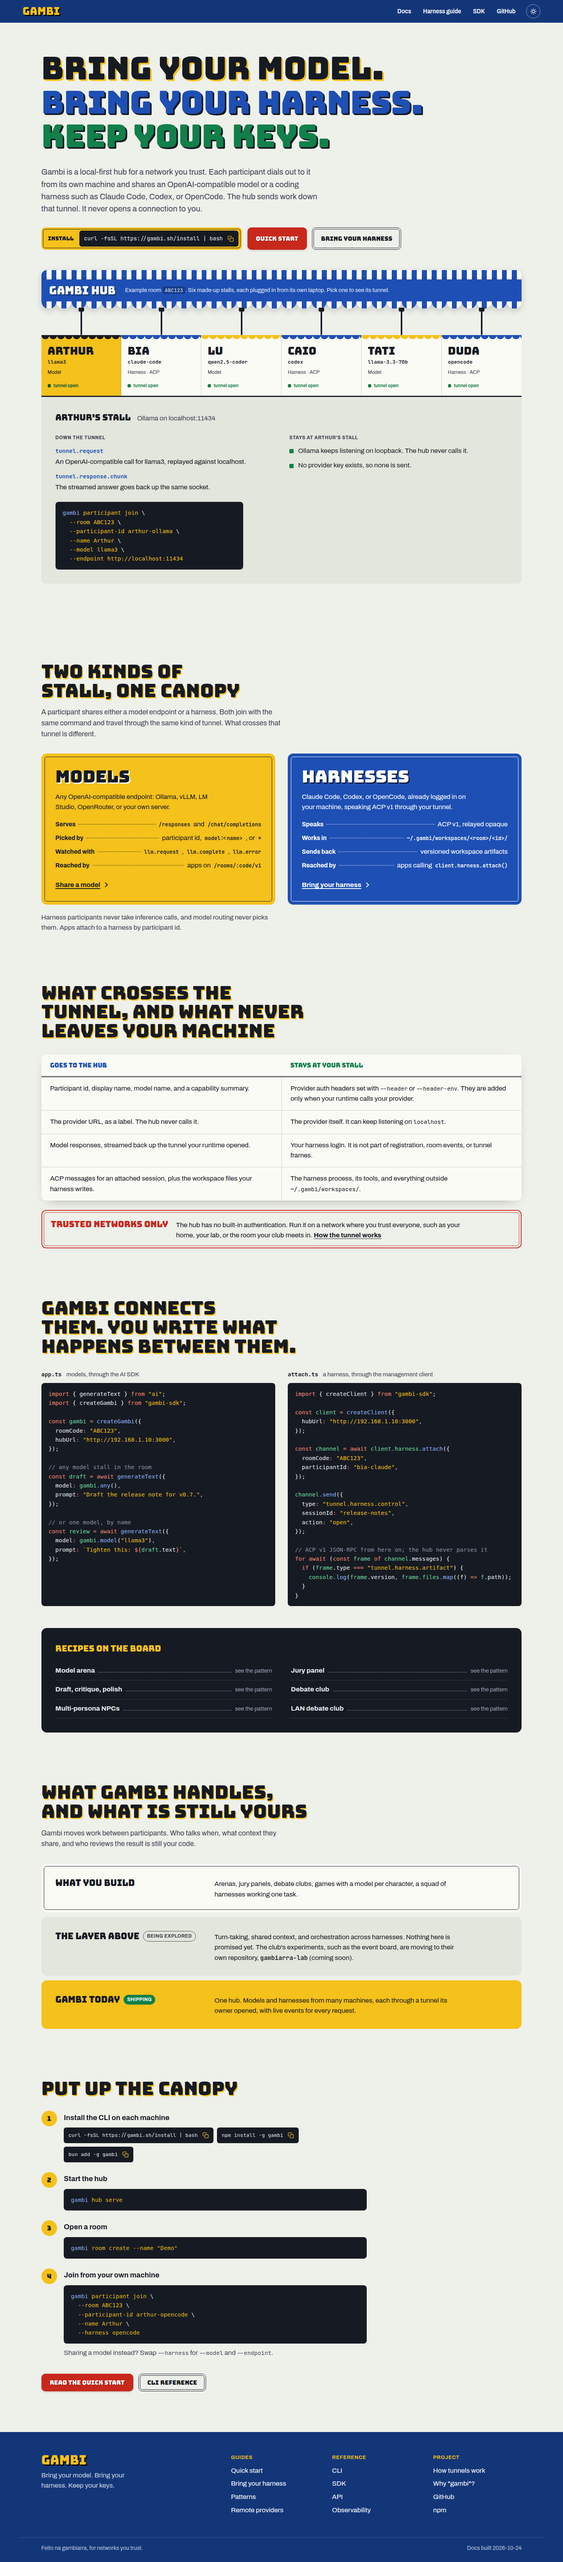
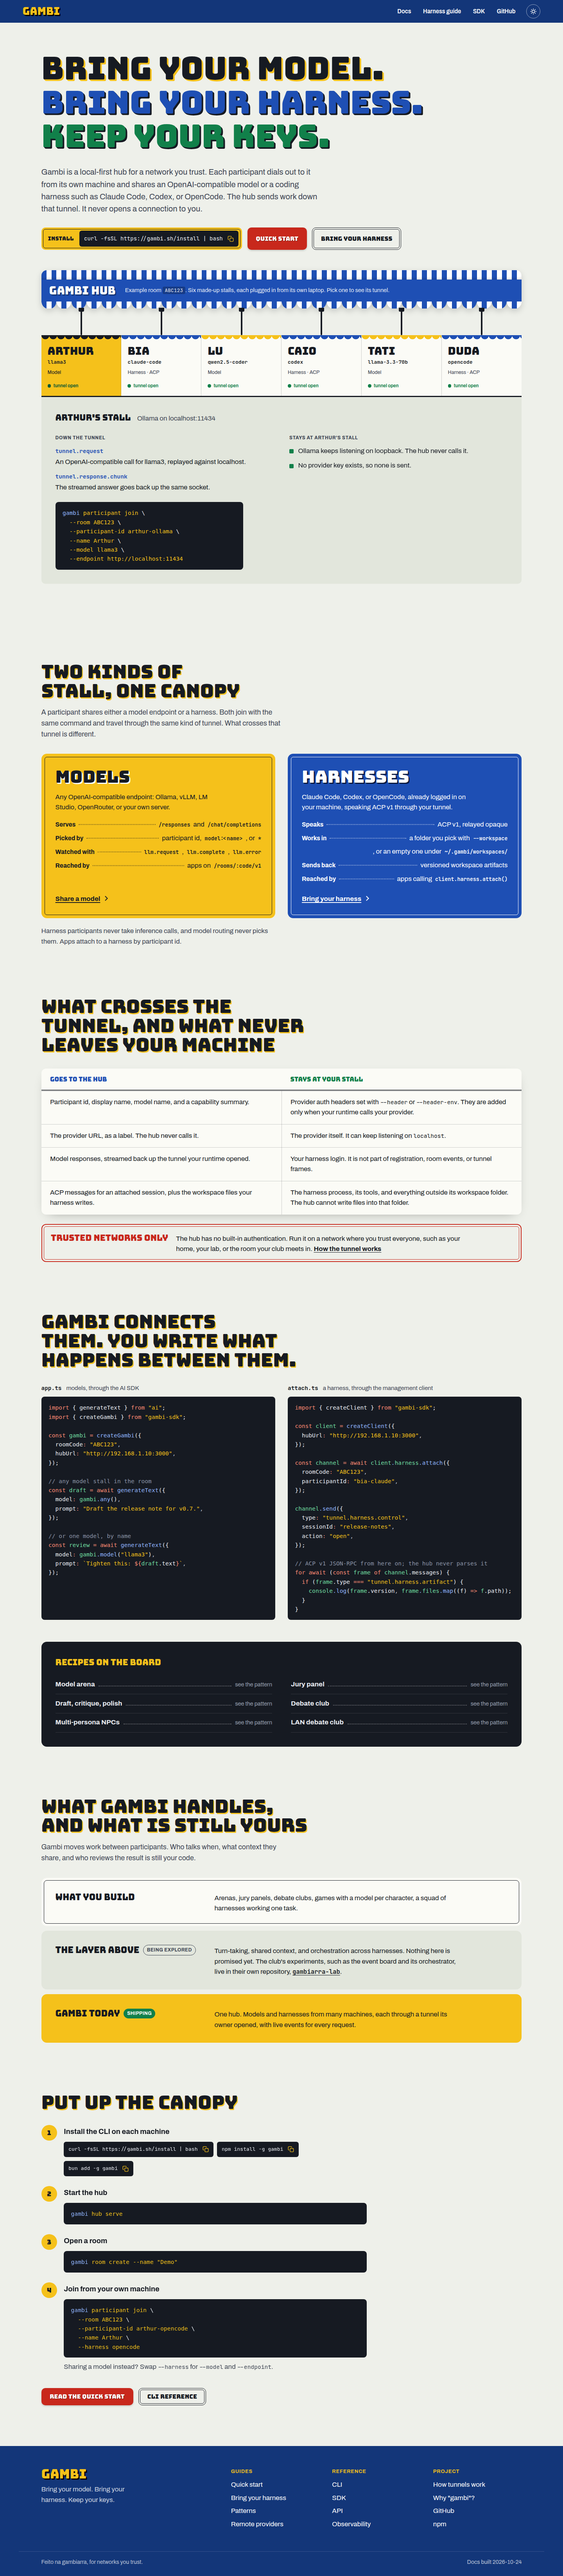
feat(docs): link gambiarra-lab and show --workspace on the landing
Main now ships the workspace seam and the board's move to
gambiarra-lab. Link the lab instead of marking it "coming soon", show a
harness stall joining with --workspace, and state that the hub cannot
write files into a participant's workspace.

diff --git a/apps/docs/.impeccable/surfaces/apps-docs-src-components-lander-astro.md b/apps/docs/.impeccable/surfaces/apps-docs-src-components-lander-astro.md
@@ -15,7 +15,7 @@ related_targets: ["apps/docs/src/content/docs/index.mdx","apps/docs/src/componen
 - Job: understand in one viewport that each participant dials out to the hub, that models and harnesses both join, and that keys stay home; then install.
 - Action: copy the working install command, then the quick start or the harness guide.
 - Proof: real CLI commands and SDK calls checked against `packages/*`; an example room labelled as an example.
-- Constraints: English copy (ADR-0001); hero names no category (no "room", "gateway", "substrate"); trusted network only, never suggest public exposure; board/agents are not part of the product; the lab repo is "coming soon" with no link; no promises about the layer above beyond "being explored".
+- Constraints: English copy (ADR-0001); hero names no category (no "room", "gateway", "substrate"); trusted network only, never suggest public exposure; board/agents are not part of the product; the club's experiments (board, orchestrator) live in github.com/arthurbm/gambiarra-lab and are linked as such; no promises about the layer above beyond "being explored".
 
 ## Direction contract
 
